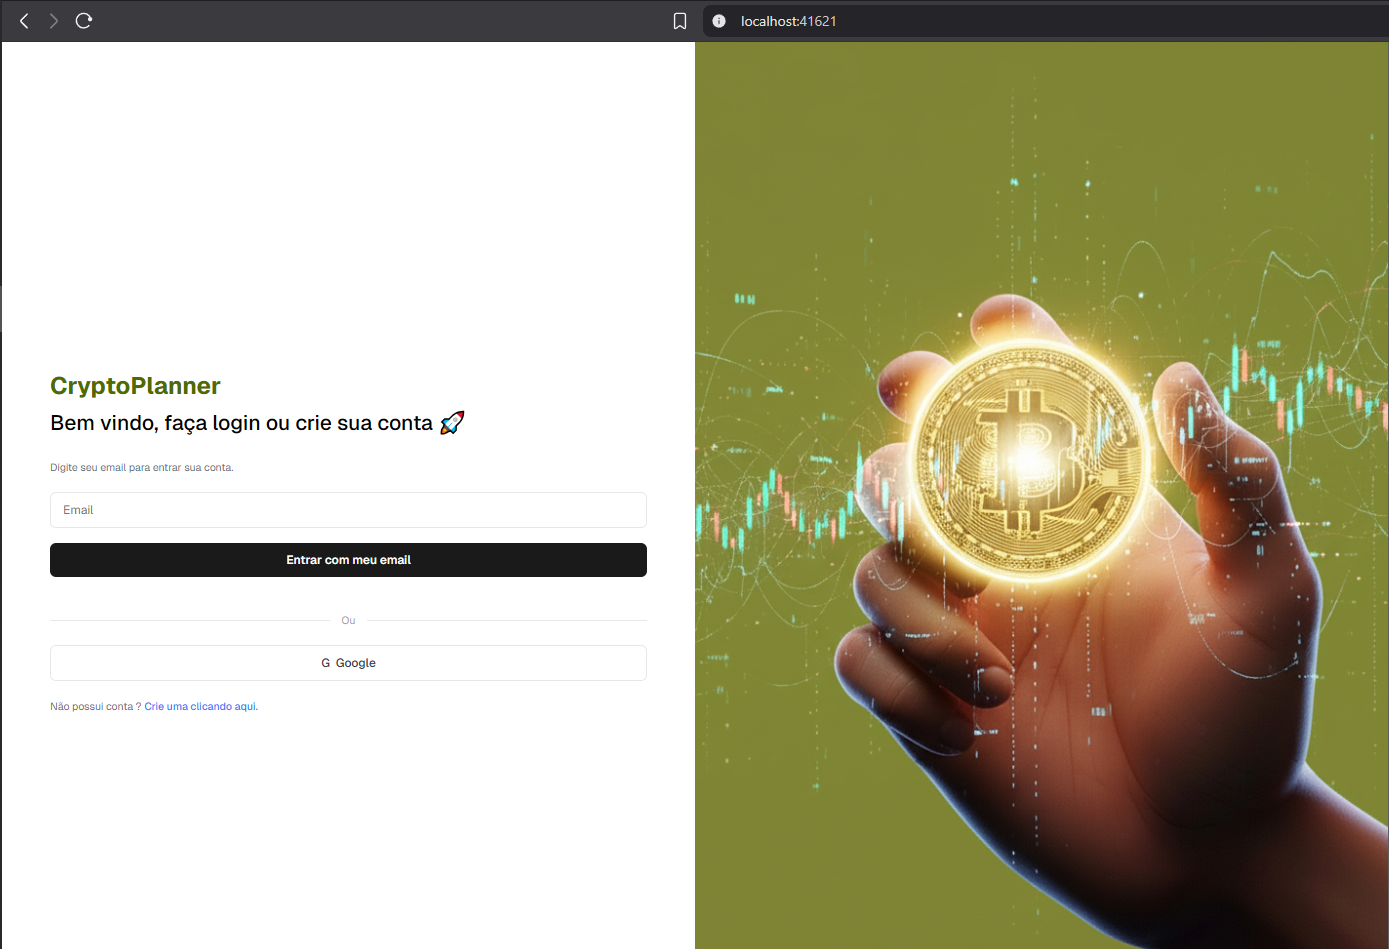
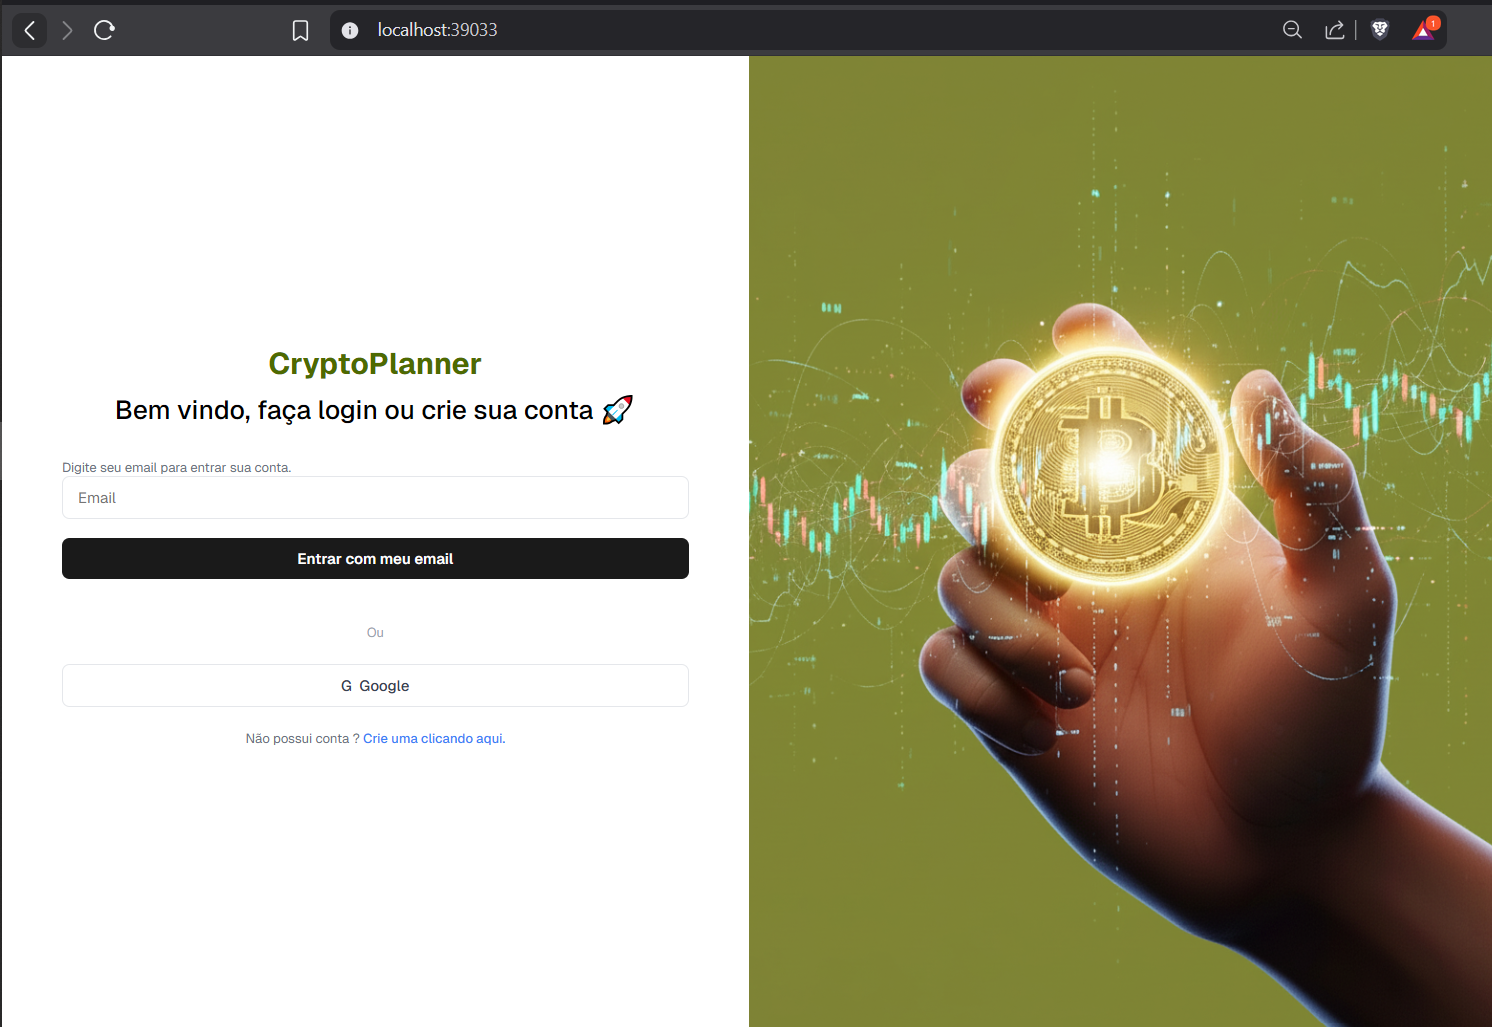
fix: update dev

diff --git a/index.css b/index.css
@@ -27,6 +27,10 @@
         body main{
             width: 50%;
             padding: 4rem;
+            display: flex;
+            align-items: center;
+            justify-content: center;
+            flex-direction: column;
         }
 
         body .content-image{
@@ -49,6 +53,7 @@
         .subtitle {
             font-size: 28px;
             color: black;
+            text-align: center;
             margin-bottom: 32px;
             font-weight: 500;
         }
@@ -57,6 +62,10 @@
             font-size: 14px;
             color: #6b7280;
             margin-bottom: 24px;
+        }
+
+        main form{
+            width: 100%;
         }
 
         .form-group {

diff --git a/index.html b/index.html
@@ -15,10 +15,11 @@
         <h1>CryptoPlanner</h1>
         <p class="subtitle">Bem vindo, faça login ou crie sua conta 🚀</p>
             
-        <p class="description">Digite seu email para entrar sua conta.</p>
+       
             
         <form>
             <div class="form-group">
+                <label class="description">Digite seu email para entrar sua conta.</label>
                 <input type="email" placeholder="Email" required>
             </div>
                 
